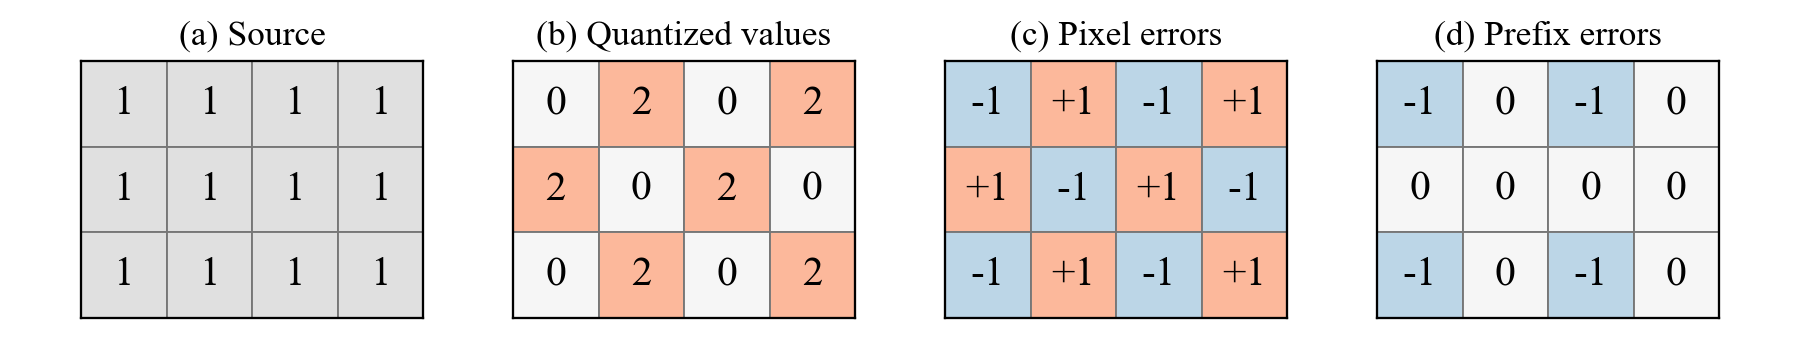
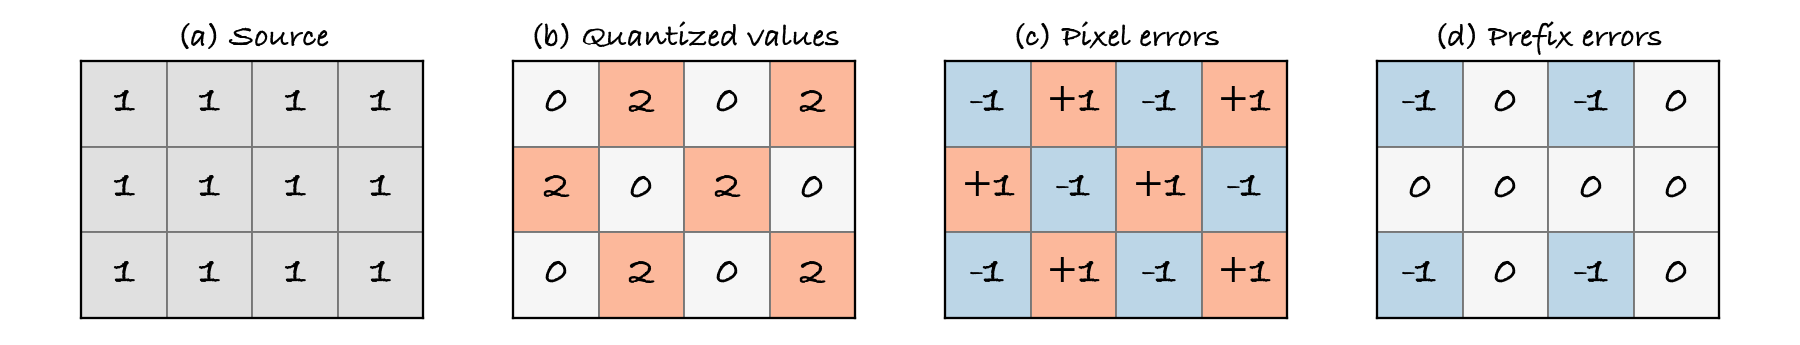
Strengthen abstract story and use Bradley Hand in Figure 1

diff --git a/paper/plotting/make_coordination_example.py b/paper/plotting/make_coordination_example.py
@@ -1,9 +1,11 @@
-"""Vector 1x4 analytical illustration in the manuscript's shared serif style."""
+"""Vector 1x4 analytical illustration with Bradley Hand labels and cell values."""
 import hashlib
 import json
+import os
 from pathlib import Path
 
 import numpy as np
+from matplotlib import font_manager
 from matplotlib.patches import Rectangle
 
 from paper_plot_style import apply_publication_style, plt, save_figure
@@ -14,8 +16,21 @@ REPORT = ROOT / 'results/coordination_example_20261007/report.json'
 OUT = ROOT / 'paper/figures/research/coordination_example'
 
 
+def bradley_hand_font():
+    # Resolve the requested font explicitly; a silent serif fallback changes the figure.
+    override = os.environ.get('BRADLEY_HAND_FONT')
+    path = Path(override) if override else Path(font_manager.findfont(
+        font_manager.FontProperties(family='Bradley Hand', weight='bold'),
+        fallback_to_default=False))
+    font = font_manager.FontProperties(fname=path)
+    if font.get_name() != 'Bradley Hand':
+        raise ValueError('BRADLEY_HAND_FONT must identify a Bradley Hand font file')
+    return font
+
+
 def coordination_example():
     data = json.loads(REPORT.read_text())['example']
+    font = bradley_hand_font()
     figure = plt.figure(figsize=(6, 1.15))
     colors = {-1: '#BCD6E7', 0: '#F6F6F6', 1: '#E0E0E0', 2: '#FCB89B'}
     for col, (key, title) in enumerate(zip(('x', 'y', 'error', 'prefix'),
@@ -28,12 +43,14 @@ def coordination_example():
             ax.add_patch(Rectangle((j, i), 1, 1, facecolor=face,
                                    edgecolor='#777777', linewidth=.45))
             label = f'{value:+d}' if key == 'error' else str(value)
-            ax.text(j + .5, i + .5, label, ha='center', va='center', fontsize=10)
+            ax.text(j + .5, i + .5, label, ha='center', va='center', fontsize=10,
+                    fontproperties=font)
         ax.set_xlim(0, values.shape[1]); ax.set_ylim(values.shape[0], 0)
         ax.set_aspect('equal'); ax.set_xticks([]); ax.set_yticks([])
         for spine in ax.spines.values():
             spine.set_linewidth(.55)
-        ax.set_title(f'({chr(97 + col)}) {title}', fontsize=8.5, pad=4)
+        ax.set_title(f'({chr(97 + col)}) {title}', fontsize=8.5, pad=4,
+                     fontproperties=font)
     return figure
 
 
@@ -50,6 +67,9 @@ if __name__ == '__main__':
         'outputs': {str(OUT.with_suffix(s).relative_to(ROOT)):
                     hashlib.sha256(OUT.with_suffix(s).read_bytes()).hexdigest() for s in ('.pdf', '.png')},
         'layout': {'inches': [6, 1.15], 'panels': [1, 4], 'numbered_cells': True},
+        'font': {'family': 'Bradley Hand',
+                 'file': str(bradley_hand_font().get_file()),
+                 'sha256': hashlib.sha256(Path(bradley_hand_font().get_file()).read_bytes()).hexdigest()},
         'reference_repo': 'https://github.com/ChenLiu-1996/figures4papers',
         'reference_commit': 'f0bb7559abe90f5e1828797126d4d133c1bd47d7'}
     OUT.with_name('provenance_coordination_example.json').write_text(json.dumps(receipt, indent=2) + '\n')

diff --git a/tests/test_figure_grids.py b/tests/test_figure_grids.py
@@ -11,6 +11,7 @@ sys.path.insert(0, str(ROOT/"paper/plotting"))
 import reference_grids as grids
 from paper_plot_style import apply_publication_style, plt
 from make_compact_review_figure import review_mechanism_compact
+from make_coordination_example import coordination_example, bradley_hand_font
 
 
 class FigureGrids(unittest.TestCase):
@@ -19,6 +20,26 @@ class FigureGrids(unittest.TestCase):
 
     def tearDown(self):
         plt.close("all")
+
+    def test_opening_example_uses_bradley_hand_without_changing_its_values(self):
+        try:
+            bradley_hand_font()
+        except ValueError as error:
+            if 'Failed to find font' not in str(error):
+                raise
+            self.skipTest('Install Bradley Hand to regenerate Figure 1')
+        figure = coordination_example()
+        report = json.loads((ROOT/"results/coordination_example_20261007/report.json").read_text())
+        self.assertEqual(len(figure.axes), 4)
+        np.testing.assert_allclose(figure.get_size_inches(), [6, 1.15])
+        for ax, key in zip(figure.axes, ("x", "y", "error", "prefix")):
+            values = np.array(report['example'][key]).ravel()
+            expected = [f'{int(v):+d}' if key == 'error' else str(int(v)) for v in values]
+            self.assertEqual([t.get_text() for t in ax.texts], expected)
+            for text in [ax.title, *ax.texts]:
+                self.assertEqual(text.get_fontproperties().get_name(), 'Bradley Hand')
+                self.assertEqual(text.get_fontproperties().get_file(), bradley_hand_font().get_file())
+        self.assertEqual(plt.rcParams['font.family'], ['serif'])
 
     def test_frontier_preserves_missing_coverage_and_water_crossover(self):
         figure = grids.frontier()

diff --git a/paper/plotting/README.md b/paper/plotting/README.md
@@ -23,6 +23,9 @@ The ten-page article starts with a 1×4 numbered checkerboard illustration
 `results/coordination_example_20261007/report.json`; this is a certificate
 separation example, not an empirical file-rate comparison. Figure 2 keeps the
 method overview in the method section, on a separate page from Figure 1.
+Figure 1 uses Bradley Hand for panel labels and cell values. Install that font
+to regenerate it, or set `BRADLEY_HAND_FONT` to a licensed local font file.
+The font is embedded in the PDF; its standalone file is not redistributed.
 Figures 3–6 show a 1×4 spatial precision example at the
 method/evaluation boundary, a 1×4 closest-construction comparison, a 1×4
 frontier and the restored 2×4 coding/step grid. The spatial example uses the
